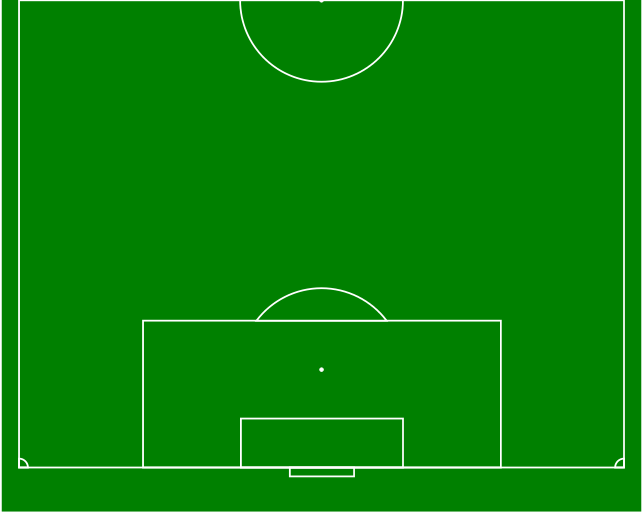
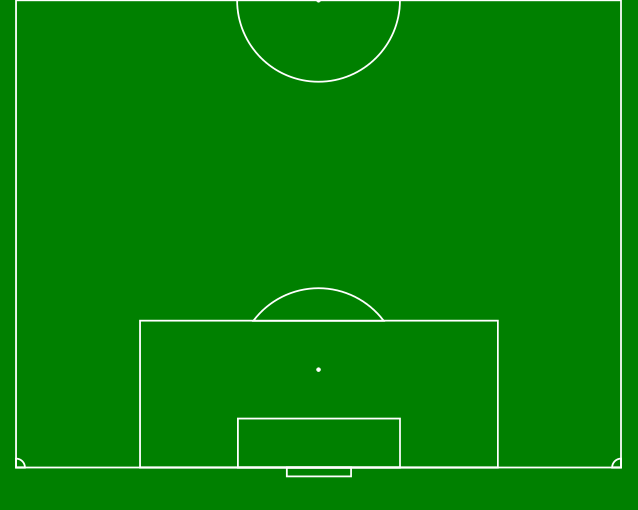
fix

diff --git a/css/style.css b/css/style.css
@@ -4,18 +4,18 @@ body {
     font-family: 'Segoe UI', Tahoma, Geneva, Verdana, sans-serif;
     font-size: 15px;
     user-select: none;
-    margin: 0 auto;
+    display: flex;
+    flex-direction: column;
+    justify-content: center;
+    align-items: center;
 }
 
 .teams {
-    position: absolute;
-    left: 50%;
-    transform: translate(-50%, 0);
 }
 
 .field {
-    width: 880px;
-    height: 700px;
+    width: 878px;
+    height: 703px;
     background-image: url('../img/field.png');
     background-size: cover;
     position: relative;
@@ -221,8 +221,8 @@ img {
 
 
     .field {
-        width: 675px;
-        height: 537px;
+        width: 637px;
+        height: 510px;
     }
 }
 
